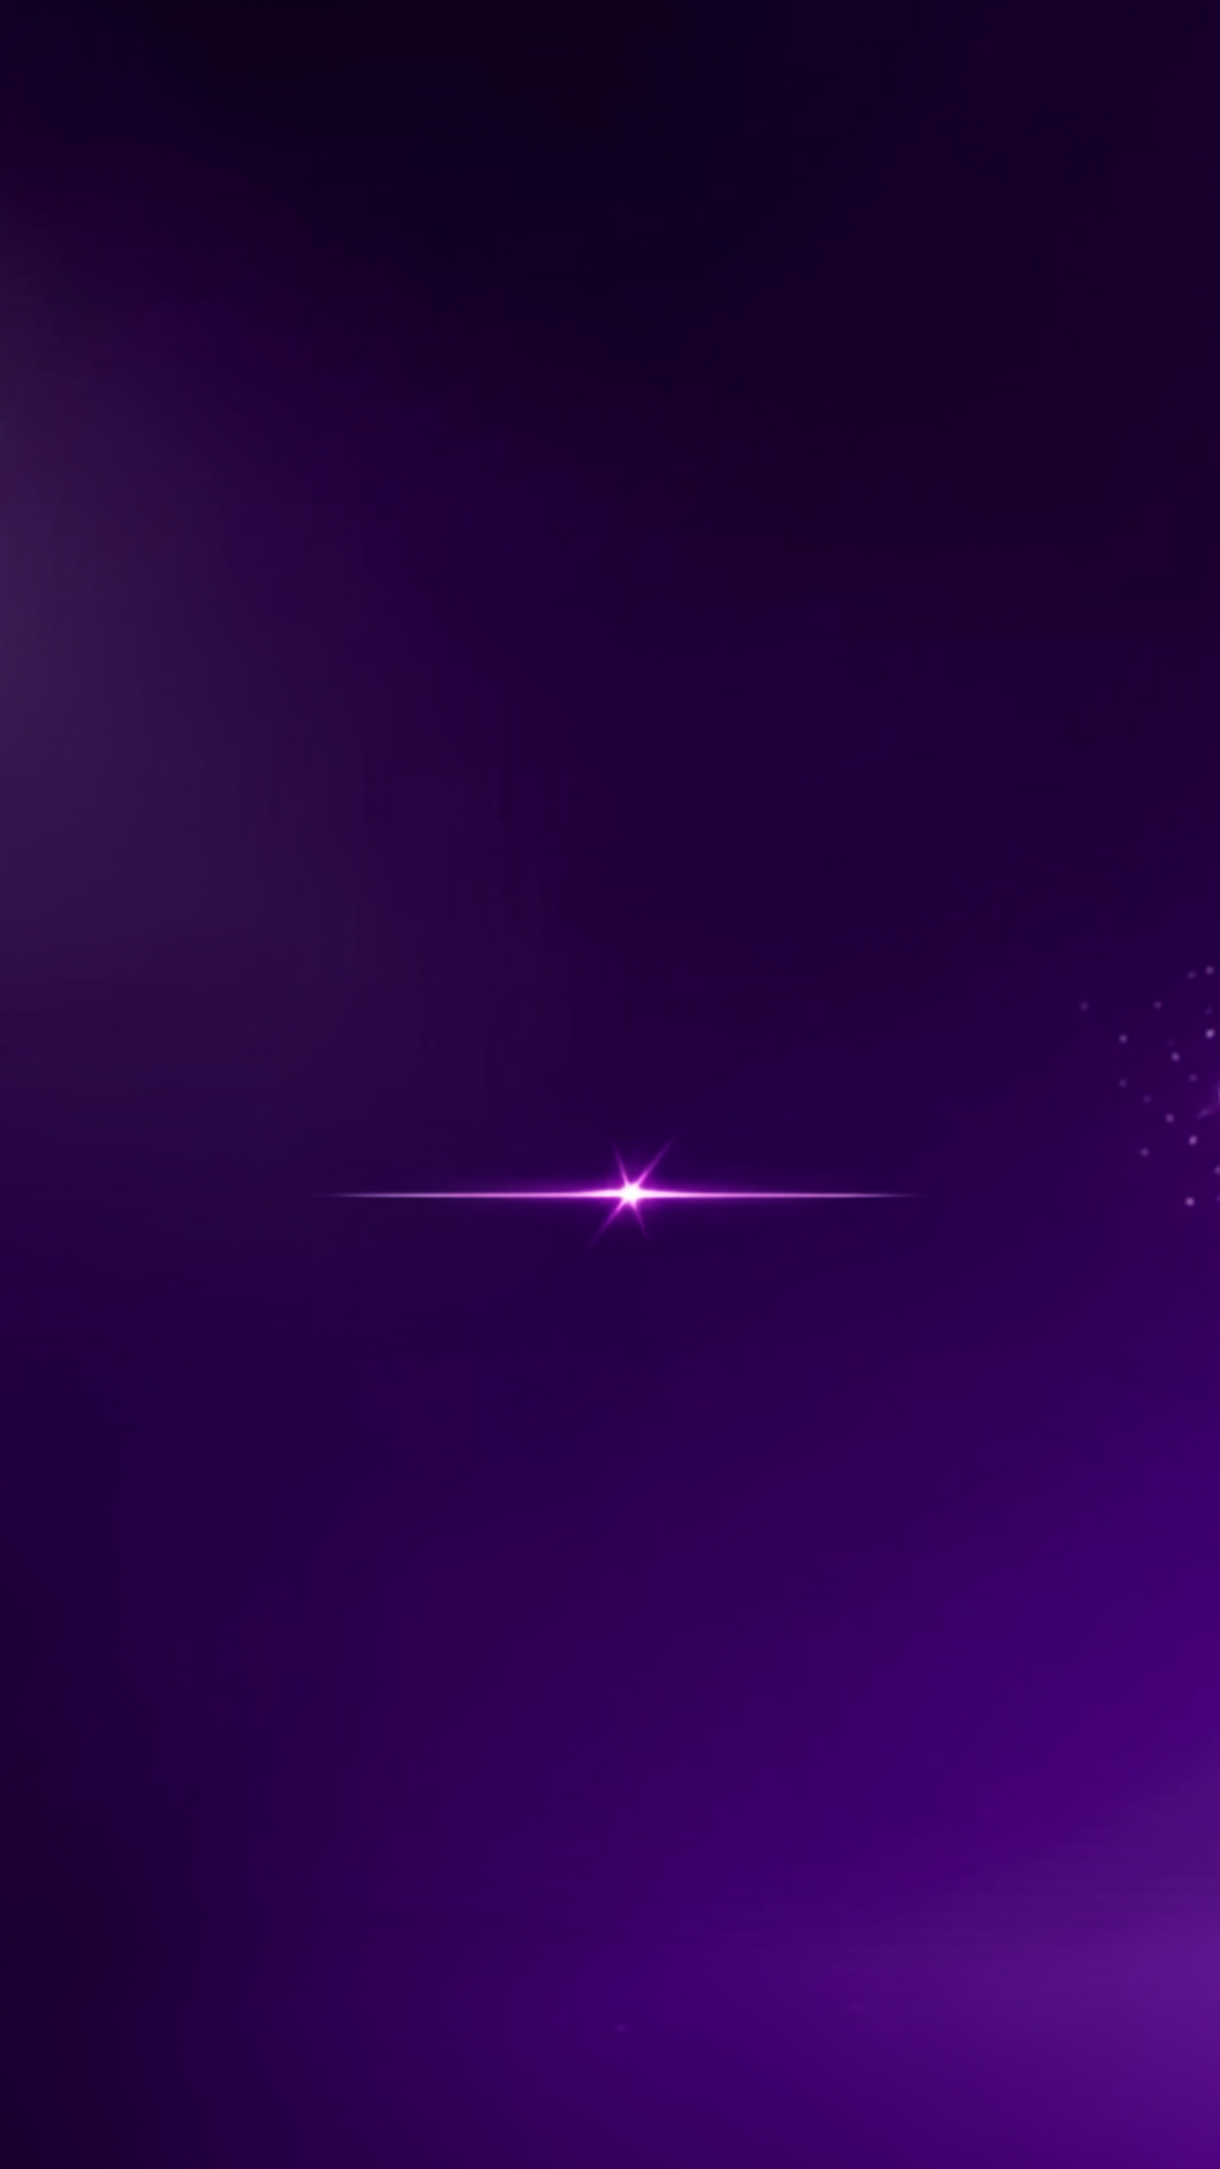
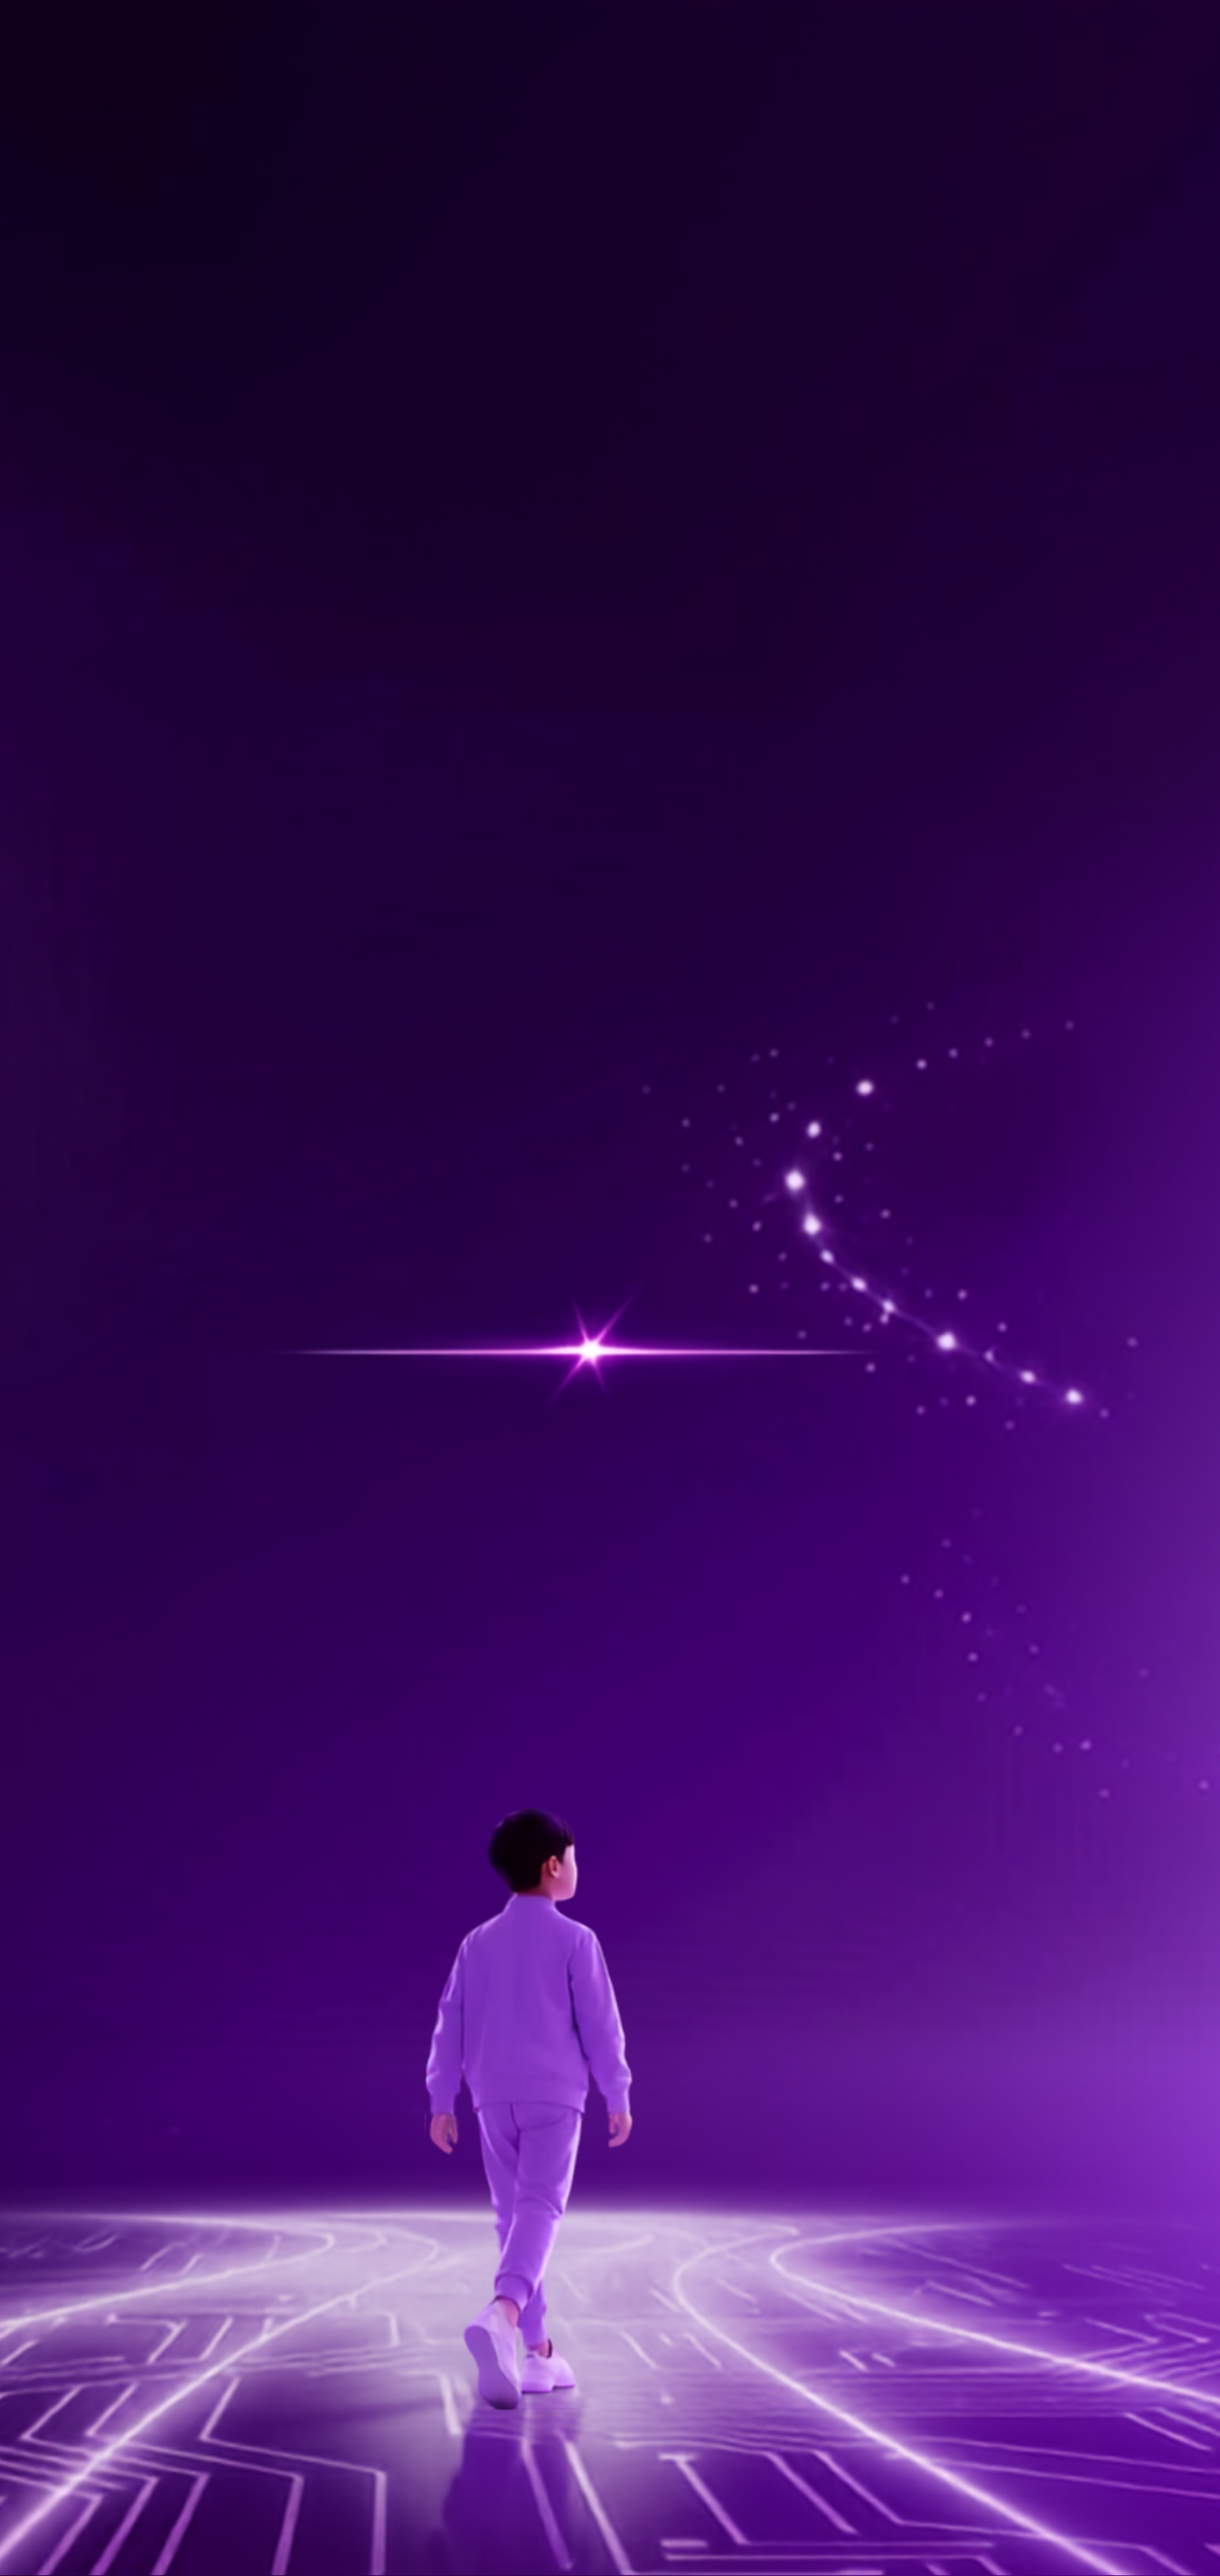
Update Scene 1 background and refine element positions.

diff --git a/Abbott/src/components/Scene1.tsx b/Abbott/src/components/Scene1.tsx
@@ -68,7 +68,7 @@ export function Scene1({ onConfirm }: Scene1Props) {
         noValidate
       >
         {/* Input — theo mockup ~16% */}
-        <div className="absolute top-[14%] left-[12%] right-[12%] z-[2]">
+        <div className="absolute top-[20%] left-[12%] right-[12%] z-[2]">
           <NameFrame
             tone="gold"
             className="mx-auto flex min-h-[8.75rem] w-full max-w-[22rem] flex-col justify-center px-5 py-5"
@@ -110,7 +110,7 @@ export function Scene1({ onConfirm }: Scene1Props) {
         </div>
 
         {/* Slogan — giữa màn ~42% */}
-        <div className="absolute top-[40%] left-[10%] right-[10%] z-[1] flex justify-center">
+        <div className="absolute top-[39%] left-[10%] right-[10%] z-[1] flex justify-center">
           <Image
             src="/assets/scene1/slogan-crop.png"
             alt="Cùng đồng hành xây nền tảng tăng trưởng cho thế hệ tương lai Việt Nam"
@@ -122,7 +122,7 @@ export function Scene1({ onConfirm }: Scene1Props) {
         </div>
 
         {/* Button — ~62%, không đẩy sát đáy */}
-        <div className="absolute top-[62%] left-[14%] right-[14%] z-[2] flex justify-center">
+        <div className="absolute top-[57%] left-[14%] right-[14%] z-[2] flex justify-center">
           <GlowButton
             type="submit"
             label="Xác nhận đồng hành"
